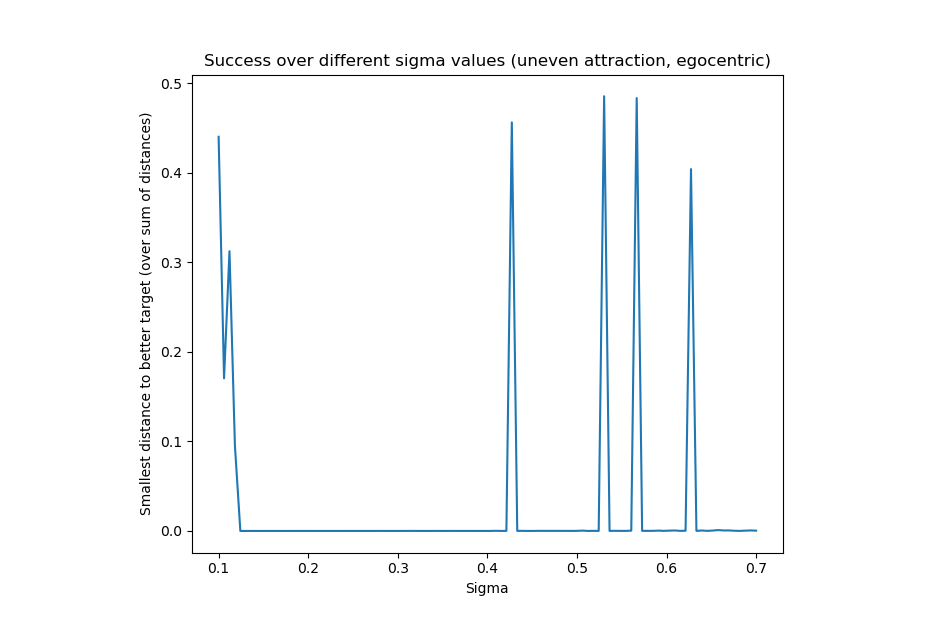
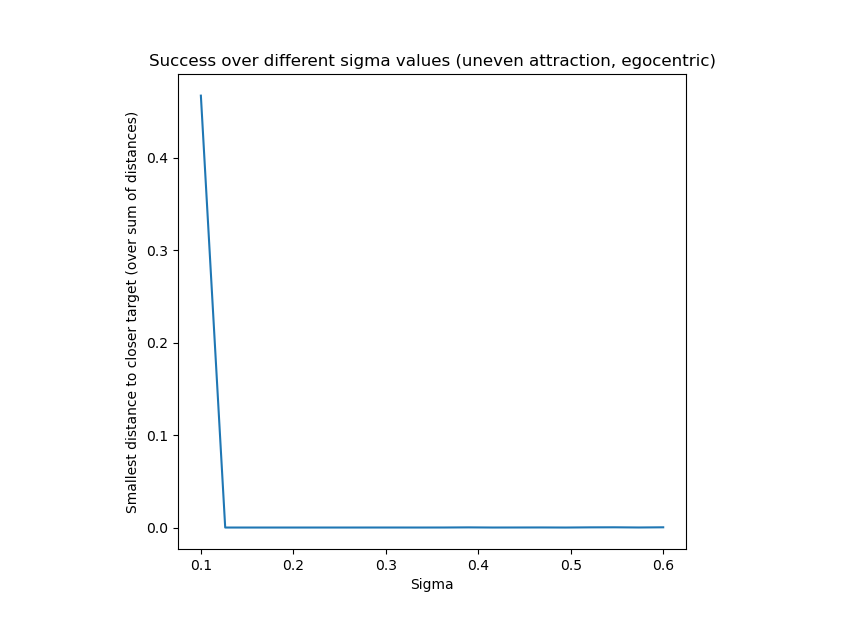
making some better plots

Changed region(s): [[0.1234, 0.0616, 0.8636, 0.9546]]

diff --git a/simulations.py b/simulations.py
@@ -3,6 +3,7 @@ import matplotlib.pyplot as plt
 import pandas as pd
 import simulate_ringattractor
 import simulation_metrics
+import time
 
 # --------  PARAMETERS --------
 
@@ -83,10 +84,10 @@ allocentricFlag = [1]
 # attraction vector, first are attraction for targets, then agents
 h0s = [[0.45,0.45]]
 
-h_b = [0.2]
+h_b = np.linspace(0,0.5,num=20)
 
 # width of the gauss bump 
-sigma = np.linspace(0.1,0.6,num=20)
+sigma = [0.5]
 
 # noise parameter 
 beta = [100]
@@ -113,8 +114,8 @@ for orientation in range(len(allocentricFlag)):
     for h in range(len(h0s)):
         h0 = h0s[h]
         for hb in range(len(h_b)):
+            print(f"hb: {hb}")
             for s in range(len(sigma)):
-                print(f"sigma: {s}")
                 for b in range(len(beta)):
                     for sim in range(n_samples):
                         min_distance = []
@@ -128,8 +129,8 @@ for orientation in range(len(allocentricFlag)):
 
 # plot x axis as param of interest, plot y axis as success measure
 plt.figure(1)
-plt.plot(sigma, mean_distance)
-plt.title("Success over different sigma values (even attraction, allocentric)")
-plt.xlabel("Sigma")
+plt.plot(h_b, mean_distance)
+plt.title("Success over different base attraction values (even attraction, allocentric)")
+plt.xlabel("Base attraction")
 plt.ylabel("Smallest distance to closer target (over sum of distances)")
 plt.show()
